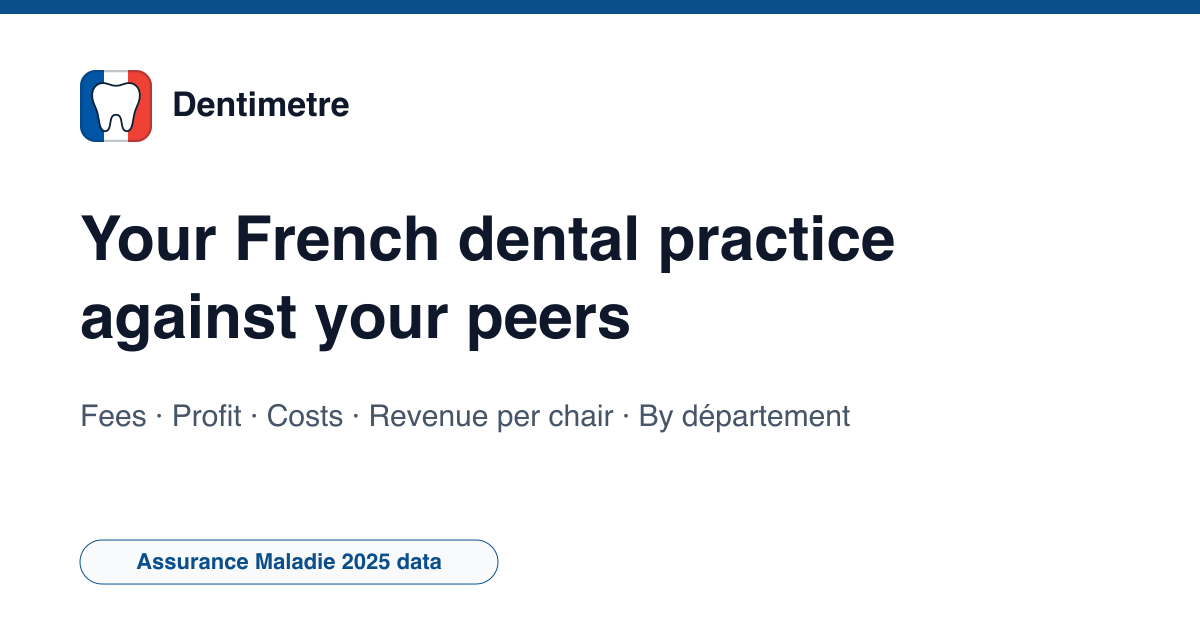
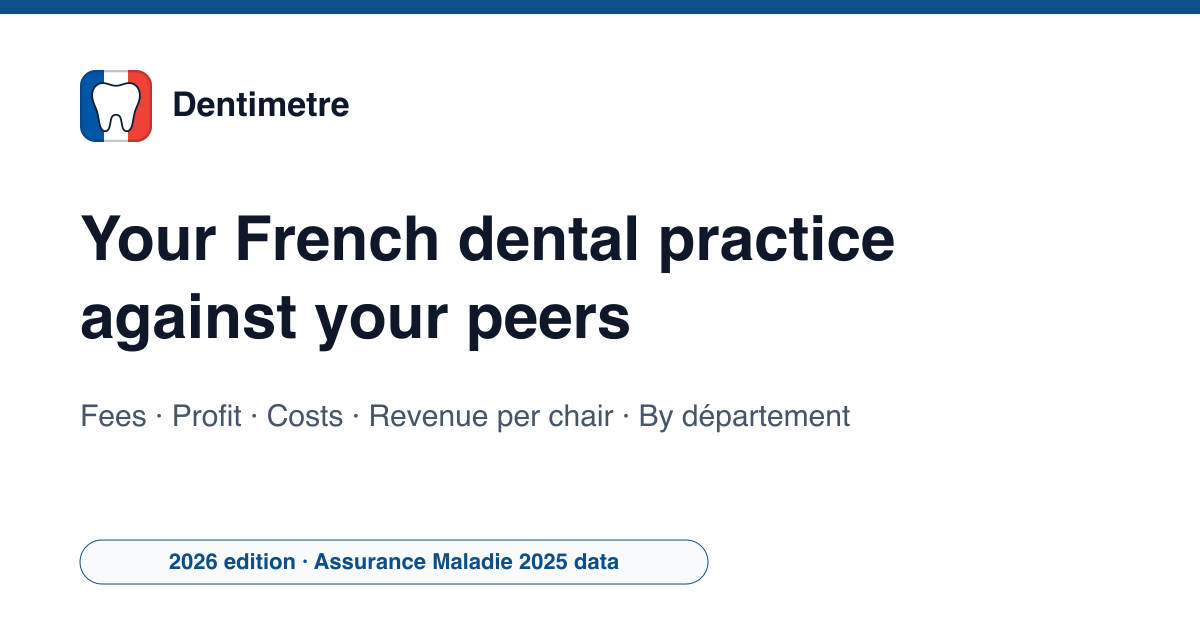
Titres en 2026 (année en cours), données Assurance Maladie 2025 dites dans les descriptions et l'image de partage

Changed region(s): [[0.0925, 0.8444, 0.5858, 0.9349]]

diff --git a/src/content/accueil.ts b/src/content/accueil.ts
@@ -2,6 +2,7 @@
  * Accueil (page pilier, RECETTE §5) : le texte des deux langues. Chaque chiffre vient des fichiers de
  * données (ameli.json, unasa.json, params-2026.json) par le code ; aucun n'est tapé à la main.
  */
+import { YEAR } from '../data/site-config';
 import type { PageText } from '../lib/guide-types';
 import { FR, DEPS, REGS, DATA_YEAR, depName, DEP_CODES } from '../lib/engine/data';
 import { classement, densiteHonoraires, depShare } from '../lib/engine/benchmark';
@@ -45,8 +46,8 @@ const hist = (l: L) => ['2015', '2019', '2020', '2021', '2023', String(Y)].map((
 
 export const HOME: Record<L, Home> = {
   fr: {
-    title: `Honoraires dentiste ${Y} : votre cabinet face au département`,
-    description: `Comparez honoraires, bénéfice et ratios de votre cabinet dentaire aux moyennes ${Y} de l'Assurance Maladie de votre département. Gratuit, sans inscription.`,
+    title: `Honoraires dentiste ${YEAR} : votre cabinet face au département`,
+    description: `Comparez votre cabinet dentaire aux dernières moyennes publiées par l'Assurance Maladie (${Y}) dans votre département : honoraires, bénéfice, ratios. Gratuit.`,
     h1: 'Votre cabinet face aux autres, et quoi faire pour progresser',
     intro: `Vos chiffres face aux moyennes ${Y} de l'Assurance Maladie et aux comptes de la profession, puis vos trois priorités chiffrées et un plan d'action.`,
     resume: `En ${Y}, un chirurgien-dentiste omnipraticien libéral a perçu ${e(o.tot!, 'fr')} d'honoraires en moyenne, un orthodontiste ${e(d.tot!, 'fr')} et un stomatologue ${e(s.tot!, 'fr')}, selon l'open data de l'Assurance Maladie publié le 12 octobre 2026. Ces moyennes varient fortement d'un département à l'autre : de ${e(co[co.length - 1].tot, 'fr')} à ${e(co[0].tot, 'fr')} pour les omnipraticiens. Le comparateur place vos propres honoraires face à la moyenne de votre spécialité dans votre département, votre région et la France, après avoir retiré les actes non remboursables que ces statistiques ignorent. Il estime ensuite votre bénéfice et votre taux de charges à partir des comptes ${UNASA_YEAR} de ${n(U.echantillon, 'fr')} cabinets dentaires (UNASA), situe ce bénéfice dans la distribution des revenus des dentistes publiée par la DREES, et calcule vos honoraires par fauteuil, par jour et par salarié. Aucune donnée ne quitte votre navigateur.`,
@@ -92,8 +93,8 @@ ${h.table(['Année', 'Omnipraticiens', 'Orthodontistes', 'Stomatologues'], hist(
 ${depLinks('fr')}`,
   },
   en: {
-    title: `Dentist fees France ${Y}: benchmark your practice locally`,
-    description: `Benchmark your French dental practice’s fees, profit and ratios against ${Y} Assurance Maladie averages for your département and specialty. Free, no sign-up.`,
+    title: `Dentist fees France ${YEAR}: benchmark your practice locally`,
+    description: `Benchmark your dental practice against the latest Assurance Maladie averages (${Y}) for your département: fees, profit and ratios. Free, no sign-up needed.`,
     h1: 'Your practice against the rest, and what to do next',
     intro: `Your figures against ${Y} Assurance Maladie averages and the profession’s accounts, then your three priced priorities and an action plan.`,
     resume: `In ${Y}, a general dentist in private practice in France billed ${e(o.tot!, 'en')} in fees on average, an orthodontist ${e(d.tot!, 'en')} and a stomatologist ${e(s.tot!, 'en')}, according to Assurance Maladie open data released on 12 October 2026. Those averages swing widely between départements, from ${e(co[co.length - 1].tot, 'en')} to ${e(co[0].tot, 'en')} for general dentists. The fee benchmark sets your own fees against the average for your specialty in your département, your region and France, after removing the non-reimbursable work those statistics never see. It then estimates your profit and cost ratio from the ${UNASA_YEAR} accounts of ${n(U.echantillon, 'en')} dental practices (UNASA), places that profit in the DREES distribution of dentists’ income, and works out fees per chair, per day and per staff member. Nothing you type leaves your browser.`,

diff --git a/src/lib/dep-gen.ts b/src/lib/dep-gen.ts
@@ -5,6 +5,7 @@
  * blocs restent un gabarit : ils sont marqués `data-chrome` dans la page (RECETTE §6.4) et le texte
  * propre au département vit dans `src/content/departements/<code>.ts`.
  */
+import { YEAR } from '../data/site-config';
 import { DEPS, FR, REGS, DATA_YEAR, type Stat } from './engine/data';
 import { depRank, depShare, growth } from './engine/benchmark';
 import { dansDep, deDep, dansReg, regLabel } from './dep-fr';
@@ -41,13 +42,13 @@ export function depGen(code: string, l: L): DepGen {
   const g = growth(o, 2019, Y);
   if (l === 'fr') {
     const title = fit([
-      `Honoraires dentistes ${n} ${Y} : moyenne et orthodontistes`,
-      `Honoraires dentistes ${n} ${Y} : moyennes et simulateur`,
-      `Honoraires dentistes ${n} ${Y} : moyenne et simulateur`,
-      `Honoraires dentistes ${n} ${Y} : moyennes, simulateur`,
-      `Dentistes ${n} : honoraires moyens ${Y}, simulateur`,
-      `Dentistes ${n} : honoraires ${Y} et simulateur`,
-      `Dentistes ${n} ${Y} : honoraires moyens`,
+      `Honoraires dentistes ${n} ${YEAR} : moyenne et orthodontistes`,
+      `Honoraires dentistes ${n} ${YEAR} : moyennes et simulateur`,
+      `Honoraires dentistes ${n} ${YEAR} : moyenne et simulateur`,
+      `Honoraires dentistes ${n} ${YEAR} : moyennes, simulateur`,
+      `Dentistes ${n} : honoraires moyens ${YEAR}, simulateur`,
+      `Dentistes ${n} : honoraires ${YEAR} et simulateur`,
+      `Dentistes ${n} ${YEAR} : honoraires moyens`,
     ], 50, 60, `titre ${code}`);
     const base = `En ${Y}, un chirurgien-dentiste omnipraticien ${dansDep(code)} a perçu ${eur(o.tot!, l)} d'honoraires en moyenne (France : ${eur(fo.tot!, l)}).`;
     const description = fit([
@@ -73,12 +74,12 @@ export function depGen(code: string, l: L): DepGen {
     return { title, description, h1, intro, resume, faqs };
   }
   const title = fit([
-    `Dentist fees ${n} ${Y}: averages, orthodontists, benchmark`,
-    `Dentist fees ${n} ${Y}: averages and orthodontists`,
-    `Dentist fees ${n} ${Y}: averages and benchmark tool`,
-    `Dentist fees ${n} ${Y}: averages, benchmark`,
-    `Dentist fees in ${n} ${Y}: averages`,
-    `Dentist fees ${n} ${Y}: averages`,
+    `Dentist fees ${n} ${YEAR}: averages, orthodontists, benchmark`,
+    `Dentist fees ${n} ${YEAR}: averages and orthodontists`,
+    `Dentist fees ${n} ${YEAR}: averages and benchmark tool`,
+    `Dentist fees ${n} ${YEAR}: averages, benchmark`,
+    `Dentist fees in ${n} ${YEAR}: averages`,
+    `Dentist fees ${n} ${YEAR}: averages`,
   ], 50, 60, `title ${code}`);
   const base = `In ${Y}, a general dentist in ${n} billed ${eur(o.tot!, l)} in fees on average (France: ${eur(fo.tot!, l)}).`;
   const description = fit([

diff --git a/src/content/guides/stomatologue.ts b/src/content/guides/stomatologue.ts
@@ -1,3 +1,4 @@
+import { YEAR } from '../../data/site-config';
 import { defineGuide, type Helpers } from '../../lib/guide-types';
 import { classement, depShare, growth, effGrowth } from '../../lib/engine/benchmark';
 import { FR, DEPS, DEP_CODES, DATA_YEAR, depName } from '../../lib/engine/data';
@@ -59,7 +60,7 @@ export default defineGuide({
     slug: 'honoraires-stomatologue-chirurgie-orale',
     nav: 'Stomatologue',
     card: `Honoraires moyens ${Y} des stomatologues, effectifs en baisse, et ce que l'on sait de la chirurgie orale.`,
-    title: `Honoraires stomatologue ${Y} : chiffres et chirurgie orale`,
+    title: `Honoraires stomatologue ${YEAR} : chiffres et chirurgie orale`,
     description: `Un stomatologue libéral a facturé ${e(s.tot!, 'fr')} d'honoraires en moyenne en ${Y} (Ameli), pour ${n(s.eff!, 'fr')} praticiens libéraux : effectifs, départements et limites.`,
     h1: 'Honoraires du stomatologue et de la chirurgie orale',
     intro: `Des médecins spécialistes de la bouche, une catégorie à part dans les données de l'Assurance Maladie.`,
@@ -102,7 +103,7 @@ ${tableDeps(h)}
     slug: 'stomatologist-oral-surgeon-fees',
     nav: 'Stomatologist',
     card: `${Y} average fees of stomatologists in France, a shrinking headcount, and what is known about oral surgery.`,
-    title: `Stomatologist fees France ${Y}: data and oral surgery`,
+    title: `Stomatologist fees France ${YEAR}: data and oral surgery`,
     description: `French stomatologists in private practice billed ${e(s.tot!, 'en')} in fees on average in ${Y}, with ${n(s.eff!, 'en')} practitioners left: headcount, départements and data gaps.`,
     h1: 'Stomatologist and oral surgeon fees in France',
     intro: `Physicians specialised in the mouth and jaws, filed apart from dentists in Assurance Maladie data.`,

diff --git a/src/content/guides/orthodontiste.ts b/src/content/guides/orthodontiste.ts
@@ -1,3 +1,4 @@
+import { YEAR } from '../../data/site-config';
 import { defineGuide, type Helpers } from '../../lib/guide-types';
 import { classement, depShare, growth, effGrowth, depRank } from '../../lib/engine/benchmark';
 import { FR, DEPS, DEP_CODES, DATA_YEAR, depName } from '../../lib/engine/data';
@@ -90,7 +91,7 @@ export default defineGuide({
     slug: 'honoraires-orthodontiste',
     nav: 'Orthodontiste',
     card: `Honoraires moyens ${Y} des orthodontistes, poids des dépassements, départements et comptes de cabinets.`,
-    title: `Honoraires orthodontiste ${Y} : moyennes Ameli et cabinets`,
+    title: `Honoraires orthodontiste ${YEAR} : moyennes Ameli et cabinets`,
     description: `Un orthodontiste libéral a facturé ${e(d.tot!, 'fr')} d'honoraires en moyenne en ${Y}, dont ${p(part, 'fr', 0)} de dépassements : écarts entre départements, évolution, comptes UNASA.`,
     h1: 'Honoraires de l’orthodontiste libéral',
     intro: `Les chiffres ${Y} de l'Assurance Maladie pour l'orthodontie dento-faciale (ODF), et leurs limites.`,
@@ -134,7 +135,7 @@ ${tableComptes(h)}
     slug: 'orthodontist-fees',
     nav: 'Orthodontist',
     card: `${Y} average fees of orthodontists in France, extra-billing, départements and practice accounts.`,
-    title: `Orthodontist fees in France ${Y}: averages and practices`,
+    title: `Orthodontist fees in France ${YEAR}: averages and practices`,
     description: `Orthodontists in French private practice billed ${e(d.tot!, 'en')} on average in ${Y}, ${p(part, 'en', 0)} of it extra-billing: ten-year trend, départements, UNASA practice accounts.`,
     h1: 'Orthodontist fees in French private practice',
     intro: `Assurance Maladie ${Y} figures for dentofacial orthopaedics (ODF), with what they leave out.`,

diff --git a/src/content/guides/ca-par-fauteuil.ts b/src/content/guides/ca-par-fauteuil.ts
@@ -1,3 +1,4 @@
+import { YEAR } from '../../data/site-config';
 import { defineGuide } from '../../lib/guide-types';
 import { cabinet } from '../../lib/engine/cabinet';
 import { reference, UNASA_YEAR } from '../../lib/engine/references';
@@ -61,7 +62,7 @@ export default defineGuide({
     slug: 'chiffre-affaires-par-fauteuil',
     nav: 'Chiffre d’affaires par fauteuil',
     card: 'Honoraires par fauteuil, par jour et par patient : le calcul à faire soi-même.',
-    title: `Chiffre d'affaires par fauteuil dentaire ${Y} : le calcul`,
+    title: `Chiffre d'affaires par fauteuil dentaire ${YEAR} : le calcul`,
     description: `Aucune moyenne officielle par fauteuil : avec ${e(fo.tot!, 'fr')} d'honoraires moyens ${Y} et ${n(df.fauteuils, 'fr')} fauteuils, un omnipraticien fait ${e(omni2.parFauteuil!, 'fr')} par fauteuil et par an.`,
     h1: 'Le chiffre d’affaires par fauteuil d’un cabinet dentaire',
     intro: 'Un ratio que tout le monde cite et qu’aucune statistique publique ne mesure : voici comment le construire.',
@@ -103,7 +104,7 @@ ${tableauQuarts('fr', h)}
     slug: 'revenue-per-dental-chair',
     nav: 'Revenue per chair',
     card: 'Fees per chair, per day and per patient: the ratio you have to build yourself.',
-    title: `Revenue per dental chair in France ${Y}: build the ratio`,
+    title: `Revenue per dental chair in France ${YEAR}: build the ratio`,
     description: `No official per-chair average exists in France. ${Y} average fees of ${e(fo.tot!, 'en')} over ${n(df.fauteuils, 'en')} chairs give a general dentist ${e(omni2.parFauteuil!, 'en')} per chair per year, on paper.`,
     h1: 'Revenue per chair in a French dental practice',
     intro: 'A ratio everyone quotes and no public statistic measures, and how to work it out.',

diff --git a/src/content/guides/classement-departements.ts b/src/content/guides/classement-departements.ts
@@ -1,3 +1,4 @@
+import { YEAR } from '../../data/site-config';
 import { defineGuide } from '../../lib/guide-types';
 import { classement, densiteHonoraires, METRO } from '../../lib/engine/benchmark';
 import { DEPS, FR, DATA_YEAR, depName, DEP_CODES } from '../../lib/engine/data';
@@ -51,7 +52,7 @@ export default defineGuide({
     slug: 'honoraires-dentistes-par-departement',
     nav: 'Classement des départements',
     card: 'Les honoraires moyens des dentistes et orthodontistes dans les 101 départements.',
-    title: `Honoraires dentiste par département ${Y} : le classement`,
+    title: `Honoraires dentiste par département ${YEAR} : le classement`,
     description: `Honoraires moyens ${Y} des dentistes dans les 101 départements, de ${e(co[co.length - 1].tot, 'fr')} à ${e(co[0].tot, 'fr')} : classement complet, orthodontistes, densité, données Ameli.`,
     h1: 'Les honoraires des dentistes, département par département',
     intro: `Le classement ${Y} des 101 départements, d'après l'open data de l'Assurance Maladie.`,
@@ -81,7 +82,7 @@ ${profil('fr')}`,
     slug: 'dentist-fees-by-departement',
     nav: 'Ranking of départements',
     card: 'Average fees of dentists and orthodontists in all 101 départements.',
-    title: `Dentist fees by département ${Y}: the full French ranking`,
+    title: `Dentist fees by département ${YEAR}: the full French ranking`,
     description: `${Y} average fees of French dentists in all 101 départements, from ${e(co[co.length - 1].tot, 'en')} to ${e(co[0].tot, 'en')}: full ranking, orthodontists, density, Assurance Maladie data.`,
     h1: 'Dentists’ fees in France, département by département',
     intro: `The ${Y} ranking of all 101 départements, from Assurance Maladie open data.`,

diff --git a/src/content/guides/omnipraticien.ts b/src/content/guides/omnipraticien.ts
@@ -1,3 +1,4 @@
+import { YEAR } from '../../data/site-config';
 import { defineGuide } from '../../lib/guide-types';
 import { classement, depShare, growth, effGrowth, depsBelow } from '../../lib/engine/benchmark';
 import { FR, DEPS, DATA_YEAR, depName } from '../../lib/engine/data';
@@ -63,7 +64,7 @@ export default defineGuide({
     slug: 'honoraires-chirurgien-dentiste',
     nav: 'Omnipraticien',
     card: `Honoraires moyens ${Y} des chirurgiens-dentistes omnipraticiens, évolution depuis 2015 et comptes des cabinets.`,
-    title: `Honoraires chirurgien-dentiste ${Y} : moyenne et écarts`,
+    title: `Honoraires chirurgien-dentiste ${YEAR} : moyenne et écarts`,
     description: `Un omnipraticien a facturé ${e(o.tot!, 'fr')} d'honoraires en moyenne en ${Y} (Ameli) : part des dépassements, écarts entre départements, évolution et comptes UNASA.`,
     h1: 'Honoraires du chirurgien-dentiste omnipraticien',
     intro: `Les moyennes ${Y} de l'Assurance Maladie, l'historique depuis 2015 et le simulateur réglé sur l'omnipratique.`,
@@ -111,7 +112,7 @@ ${tableQuarts(h)}
     slug: 'general-dentist-fees',
     nav: 'General dentist',
     card: `${Y} average fees of general dentists in France, trend since 2015 and practice accounts.`,
-    title: `General dentist fees France ${Y}: averages and spread`,
+    title: `General dentist fees France ${YEAR}: averages and spread`,
     description: `French general dentists billed ${e(o.tot!, 'en')} in fees on average in ${Y} (Assurance Maladie): extra-billing share, départements, ten-year trend, practice accounts.`,
     h1: 'Fees of a general dentist in France',
     intro: `Assurance Maladie ${Y} averages, the series since 2015 and the calculator set for general practice.`,
